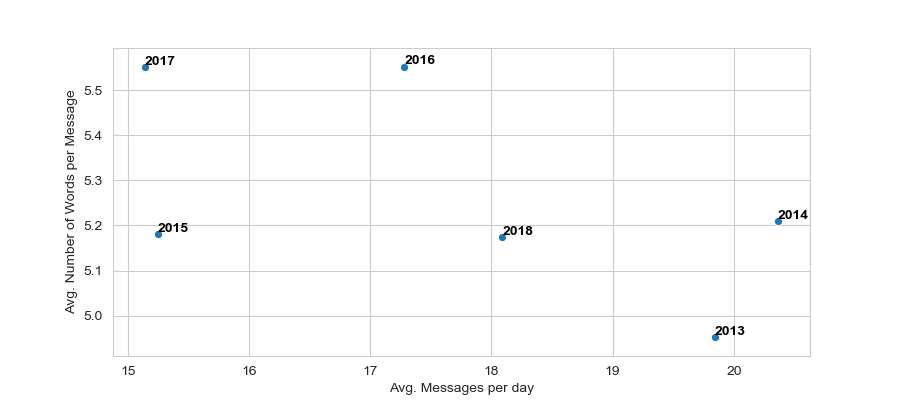
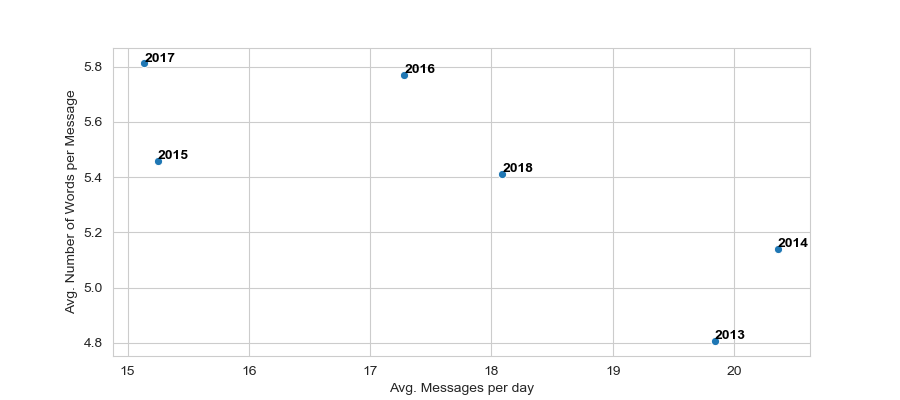
improved preprocessing for emojis

diff --git a/preprocess_data.py b/preprocess_data.py
@@ -3,12 +3,15 @@ import re
 import emoji
 import numpy as np
 import pandas as pd
+import unicodedata
 from tqdm import tqdm
 
 
 def standardize_str(s: str):
-    """
-    Standardizes a string by replacing umlauts and escape characters
+    """Standardizes a Whatsapp message string
+
+    Standardizes the string by replacing escape characters and decode emojis to their corresponding aliases. Also
+    removes unknown unicode characters.
 
     Args:
         s: the input string
@@ -16,15 +19,16 @@ def standardize_str(s: str):
     Returns:
         The standardized string
     """
-    s = s.replace('ü', 'ue')
-    s = s.replace('ö', 'oe')
-    s = s.replace('ä', 'ae')
-    s = s.replace('ß', 'ss')
-    s = re.sub('\\x00', '', str(s))
-    s = s.replace('b\' ', '')
-    s = s.replace('\'', '')
+    s = "".join([s_i for s_i in s if unicodedata.category(s_i) != "Co"])
     s = s.strip()
-    s = s.encode('ascii', 'ignore').decode("utf-8")
+    s = re.sub("\x00", "", s)
+    if len(s) > 0:
+        s = "".join([s_i for s_i in s if "MODIFIER FITZPATRICK" not in unicodedata.name(s_i)])
+    s = s.strip()
+    s = unicodedata.normalize("NFD", s)
+    s = emoji.demojize(s)
+    s = re.sub(r"(:[\w-]*:)", r" \1 ", s)
+    s = " ".join(s.split())
     return s
 
 
@@ -101,7 +105,7 @@ DATA_OUT_PATH = "data/prepro_data.txt"
 
 if __name__ == "__main__":
     # Load lines from text file
-    with open(DATA_PATH, 'r', encoding="utf-8") as f:
+    with open(DATA_PATH, 'r', encoding="utf-8", errors="ignore") as f:
         string = f.read()
     strings = string.split('\n')
 
@@ -126,8 +130,19 @@ if __name__ == "__main__":
     common_senders = msg_table["Sender"].value_counts().index[msg_table["Sender"].value_counts() > 10]
     msg_table = msg_table[msg_table["Sender"].isin(common_senders)]
 
-    # Remove media excluded system message
+    # Remove 'media excluded' system message
     msg_table = msg_table[['<Medien ausgeschlossen>' not in msg for msg in msg_table['Message']]].reset_index(drop=True)
+    msgs = []
+    for msg in tqdm(msg_table['Message']):
+        msgs.append(standardize_str(msg))
+
+    with open(DATA_OUT_PATH, 'w', encoding="utf-8") as f:
+        for msg in msgs:
+            if len(msg) > 0:
+                f.write("%s\n" % msg)
+
+    msg_table["Message"] = msgs
+
     msg_table["nWords"] = [len(m.split()) for m in msg_table["Message"]]
     msg_table["nLetters"] = [len(m) for m in msg_table["Message"]]
 
@@ -139,17 +154,3 @@ if __name__ == "__main__":
     response_to = get_questioner(questioner)
     msg_table["ResponseTo"] = response_to
     msg_table.to_csv(MSG_TABLE_OUT_PATH, index=False, encoding="utf-8")
-
-    # delete Emojis
-    msg_table['Message'] = [emoji.demojize(m) for m in msg_table["Message"]]
-    msg_table['Message'] = [re.sub(':*.*:', '', msg) for msg in msg_table['Message']]
-    msg_table = msg_table[[msg != '' for msg in msg_table['Message']]]
-
-    msgs = []
-    for msg in tqdm(msg_table['Message']):
-        preprocessed_msg = standardize_str(msg)
-        if len(preprocessed_msg) > 0:
-            msgs.append(preprocessed_msg)
-    with open(DATA_OUT_PATH, 'w') as f:
-        for msg in msgs:
-            f.write("%s\n" % msg)
